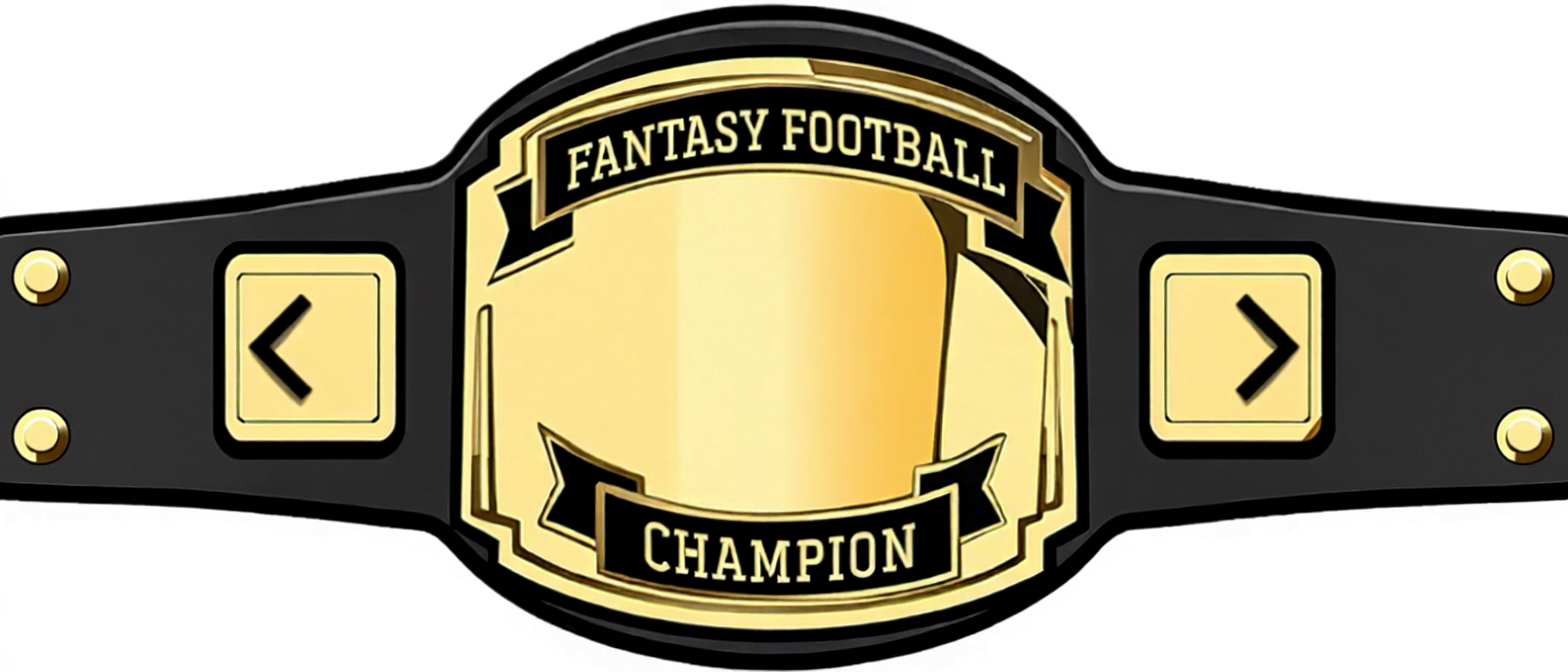
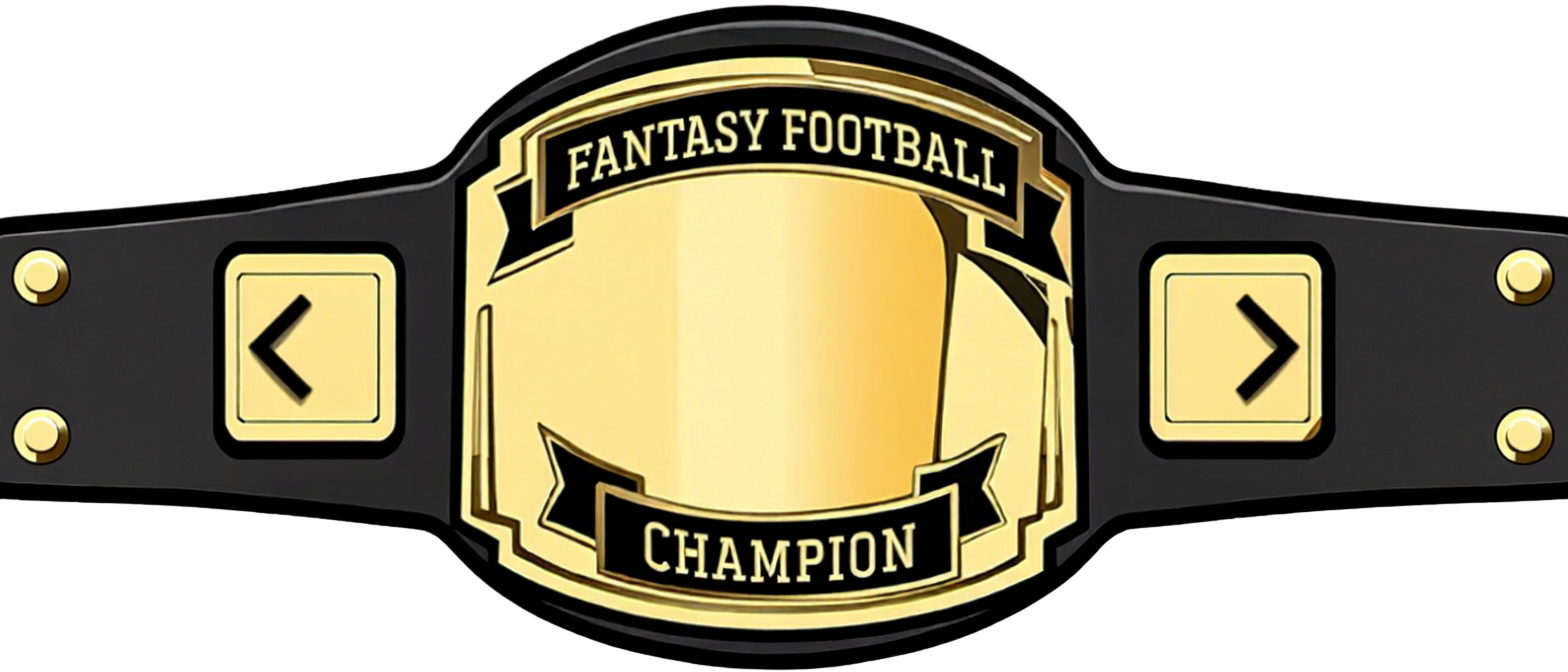
belt image fix

diff --git a/README.md b/README.md
@@ -99,7 +99,7 @@ This will create a production-ready version of your application in the `build` d
 
 ### Deployment
 
-This project is configured for easy deployment on Vercel or with Docker.
+This project is configured for easy deployment on Vercel or with Docker..
 
 #### Vercel
 
